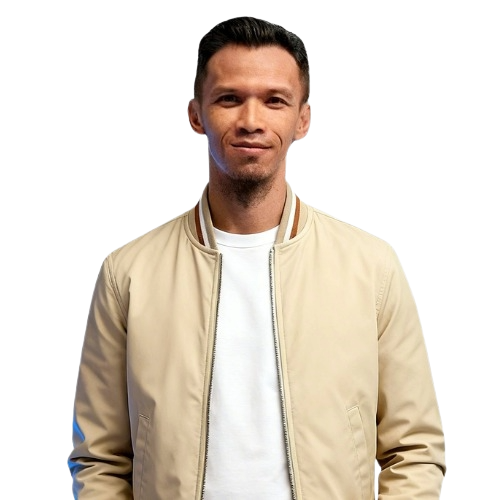
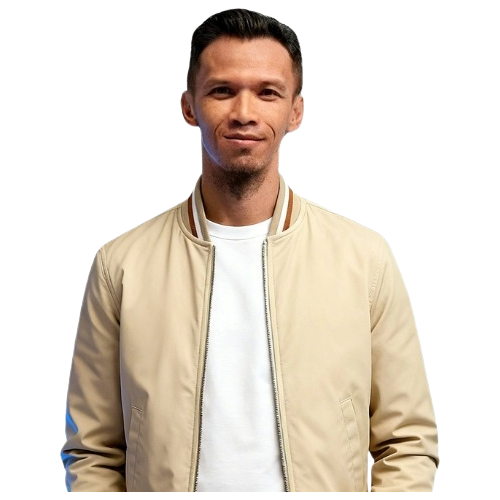
edit personal guarentee photo

Changed region(s): [[0.12, 0.0, 0.9, 1.0], [0.78, 0.48, 0.81, 0.57], [0.72, 0.45, 0.78, 0.48]]

diff --git a/pages/tentang.vue b/pages/tentang.vue
@@ -61,11 +61,11 @@ useHead({
     >
       <div class="relative mx-auto w-56 md:w-64">
         <div
-          class="absolute -bottom-4 -right-4 h-full w-full rounded-full bg-primary"
+          class="absolute -inset-4 rounded-full bg-primary"
           aria-hidden="true"
         />
         <img
-          src="/hero.png"
+          src="/alief.png"
           alt="Foto founder ALF Production"
           width="500"
           height="500"
